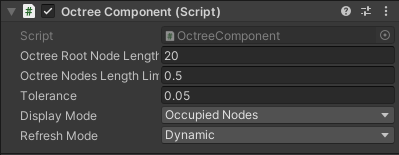
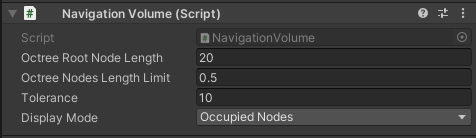
Agent finding his path added
Ah, Victory

diff --git a/index.html b/index.html
@@ -47,17 +47,19 @@
                         <div id="Grid">
                             <p>The idea of this project was born during a Game Jam where the player was fighting <b>flying enemies</b>, and their pathfinding wasn't as fluent as I wanted it to be.<br><br>After reading a few things about navigation, <b>I've thought that the octree datastructure was an efficient way to retrace scene geometry</b>.<br><br>Subdividing occupied nodes is <b>adding complexity only where it's required</b> to have a precise representation of obstacles.</p>
                             <img class="illustration" src="Ressources/Octree/Octree_schema.png">
-                            <p>The <b>OctreeNode</b> class is a simple C# class, containing data like position or depth, and a recursive Split method.<br><br>The <b>OctreeComponent</b> works as a Navigation Volume. He manages the Root Node, the visual representation and the navmesh actualization.<br><br><b>Tolerance</b> is the purcentage of the node that must be occupied to subdivide.</p>
+                            <p>The <b>OctreeNode</b> class is a simple C# class, containing data like position or depth, and a few methods like the recursive Split.<br><br>The <b>Navigation Volume</b>  manages the Root Node, the visual representation and the navmesh actualization.<br><br><b>Tolerance</b> is the purcentage of the node that must be occupied to subdivide.</p>
                             <img class="illustration" src="Ressources/Octree/Component.PNG">
                         </div>
                         <div id="Grid">
                             <p>The next step was to find an alogrithm to <b>find neighbors Nodes</b>.<br><br>I first tried a <b>system of adresses</b>, with each nodes having a <b>binary adress</b>.<br><br>But I was stuck, so I've decided to <b>change my paradigm</b> and to use geometry and <b>positions calculations</b> to find the closest nodes.<br><br>With this new approach, I was quickly able to find neighbors Nodes and to have <b>this new Graph</b>, called a <b>Dual</b>.<br><br>I'm not yet satisfied by the <b>cost of the algorithm</b> which remains high, so I'll keep optimizing it in the future.</p>
                             <img class="illustration" src="Ressources/Octree/DUAL.PNG">
                             <div id="Octree Roadmap">
-                                <p>This project is still in progress.<br><br>On the left, you can see that I now have <b>every leaf Node relied to her neighbors</b>.<br><br>The next step is to <b>implement A*</b> which will iterate quickly through the Nodes and <b>find a path to the destination node</b>.
+                                <p>On the left, you can see <b>every leaf Node relied to her neighbors</b>.<br><br>Those neighbors doesn't need to be found at initialization, but I've kept a debug mode were the dual is build because it looks really pretty to me. And for debugging. Of course.<br><br>The next step was to <b>implement A*</b>.
                                 </p>
                             </div>
                             <img class="illustration" src="Ressources/Octree/DUAL_2.PNG">
+                            <p>I've implemented the basic version of A*, and now <b>the Agent is able to move to his destination</b>.<br><br>The path can be quickly <b>recalculated at runtime</b> if the destination of the agent changes.<br><br>The path is still <b>suboptimal</b>, and my next goal is to <b>add curves</b> to the motion make the movement more fluid.</p>
+                            <img class="illustration" src="Ressources/Octree/Nav3D_GIF.gif">
                         </div>
                     </div>
                     <hr>
